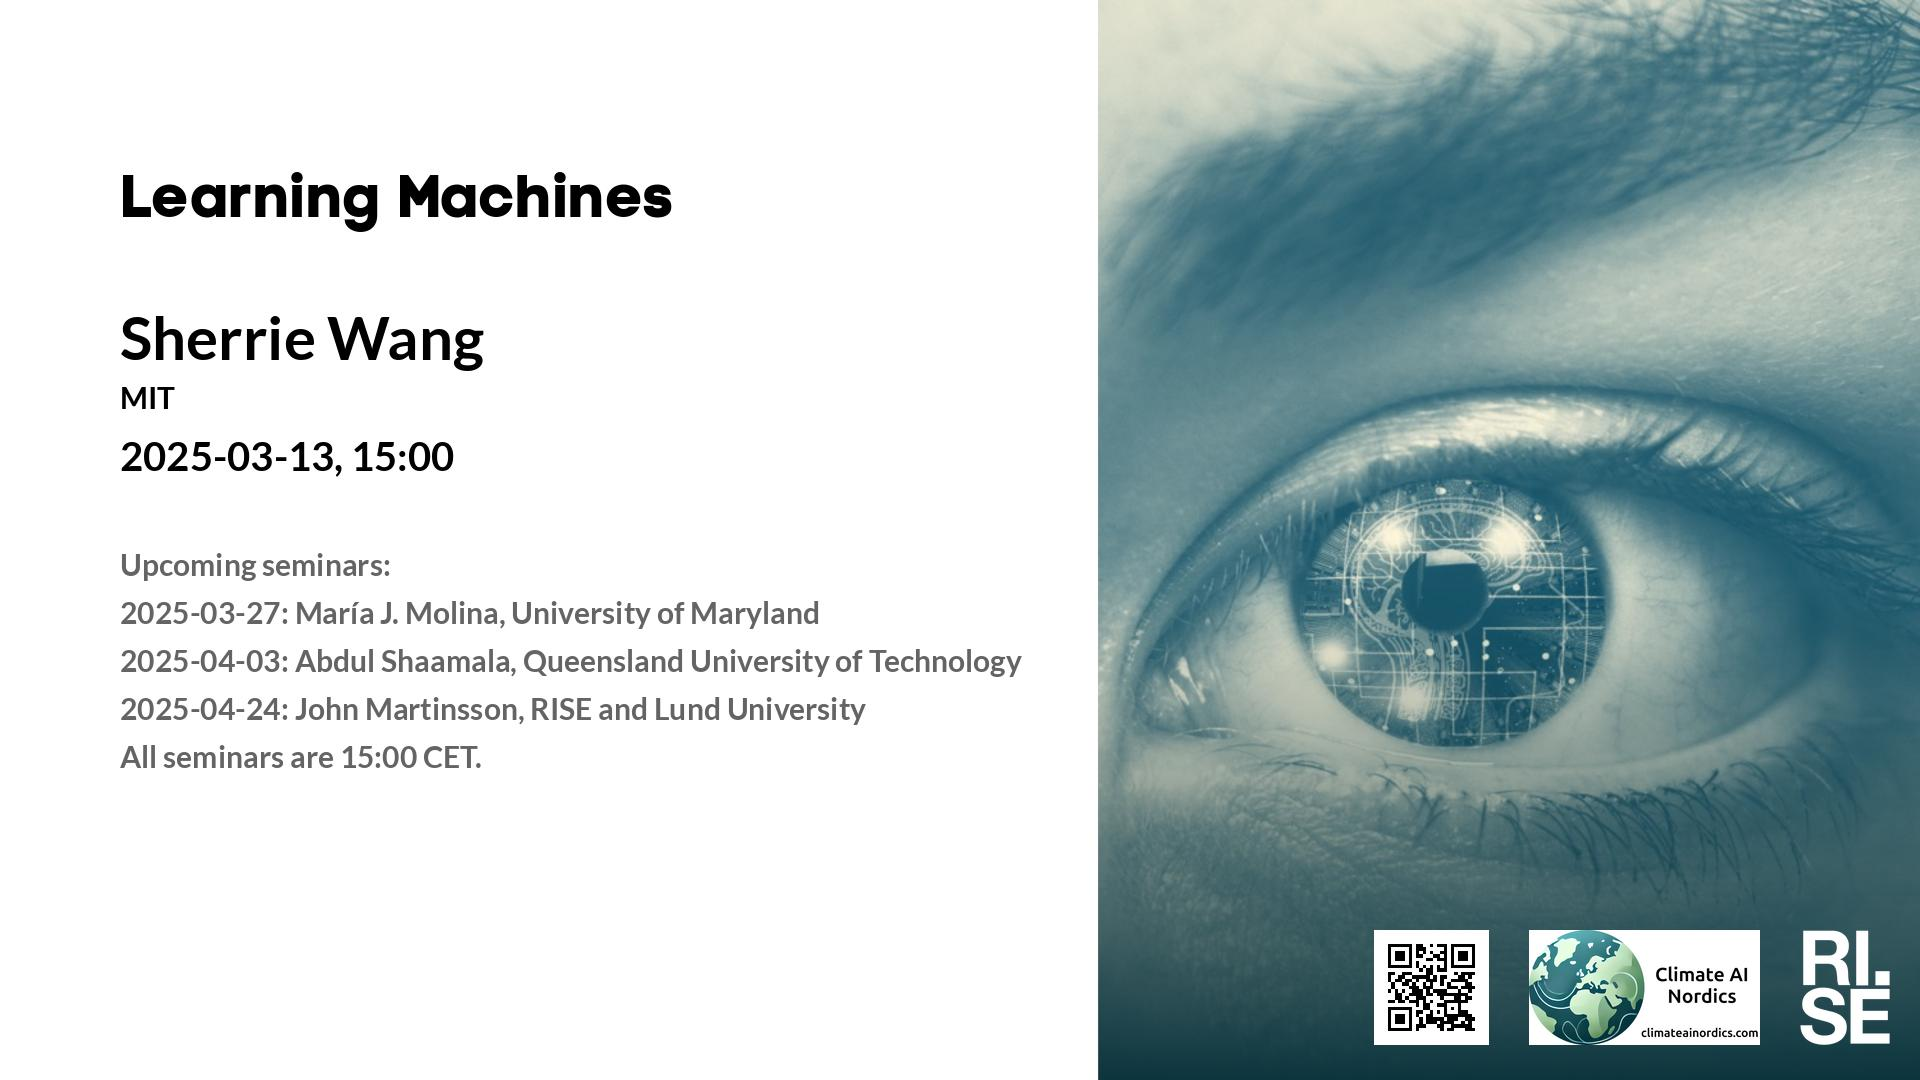
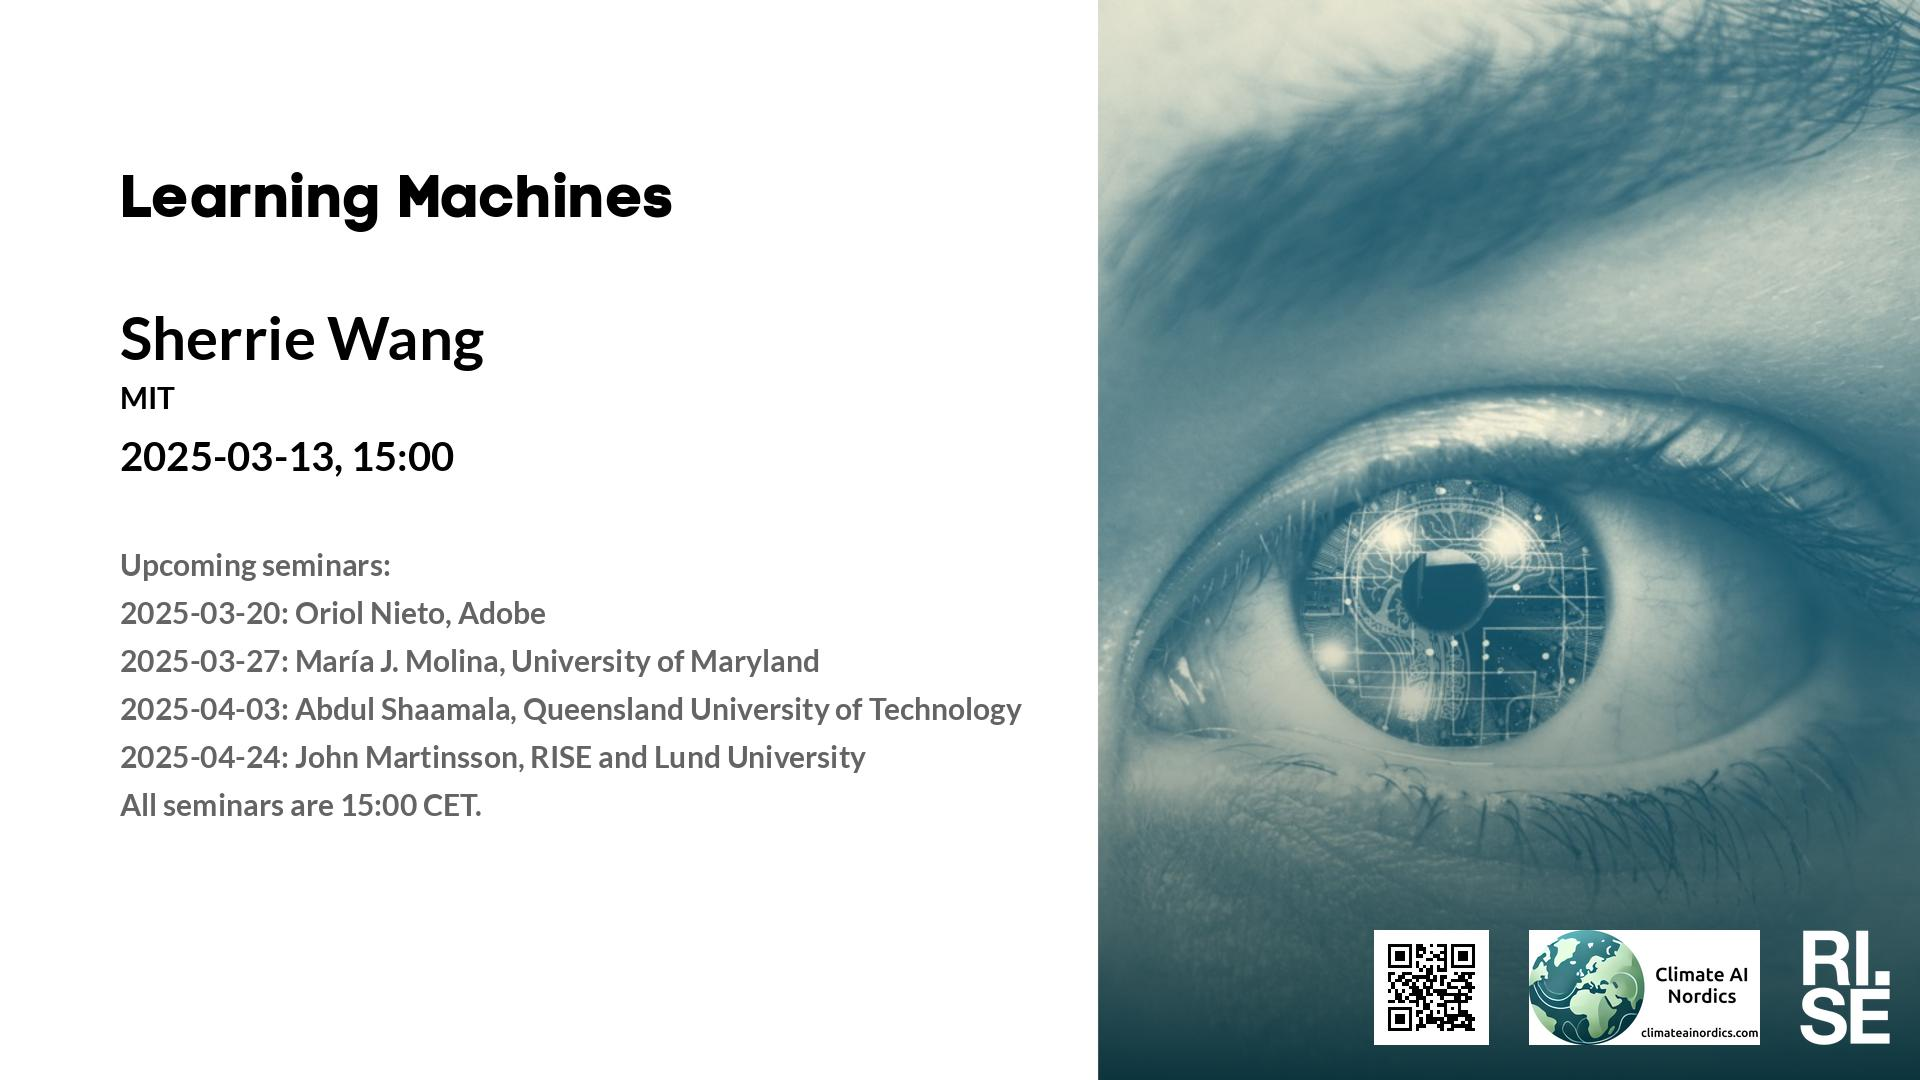
Updated plan on web site.

Changed region(s): [[0.0625, 0.55, 0.5312, 0.7639]]

diff --git a/lm/2025.md b/lm/2025.md
@@ -18,7 +18,7 @@ table {border-collapse: collapse;}
 | <span style="color:red"> 2025-02-27 </span> | <span style="color:red"> Sportlov STHLM </span> | <span style="color:red">  </span> | <span style="color:red">  </span> | <span style="color:red">  </span> | <span style="color:red">  </span> | <span style="color:red"> CANCELLED </span> |
 |  2025-03-06  |  [Atakan Aral, University of Vienna](2025-03-06.md)  |  [photo](2025-03-06-photo-atakan-aral.jpg)  |  [social media ](2025-03-06-social-media-atakan-aral.jpg)  |  [meeting backdrop ](2025-03-06-meeting-backdrop-atakan-aral.jpg)  |  [youtube thumbnail ](2025-03-06-youtube-thumbnail-atakan-aral.jpg)  |  STABP  |
 |  2025-03-13  |  [Sherrie Wang, MIT](2025-03-13.md)  |  [photo](2025-03-13-photo-sherrie-wang.jpg)  |  [social media ](2025-03-13-social-media-sherrie-wang.jpg)  |  [meeting backdrop ](2025-03-13-meeting-backdrop-sherrie-wang.jpg)  |  [youtube thumbnail ](2025-03-13-youtube-thumbnail-sherrie-wang.jpg)  |  S~~TA~~BP  |
-| <span style="color:grey"> 2025-03-20 </span> | <span style="color:grey"> Oriol (. N. ? </span> | <span style="color:grey">  </span> | <span style="color:grey">  </span> | <span style="color:grey">  </span> | <span style="color:grey">  </span> | <span style="color:grey"> S~~TA~~B~~P~~ </span> |
+|  2025-03-20  |  [Oriol Nieto, Adobe](2025-03-20.md)  |    |  [social media ](2025-03-20-social-media-oriol-nieto.jpg)  |  [meeting backdrop ](2025-03-20-meeting-backdrop-oriol-nieto.jpg)  |  [youtube thumbnail ](2025-03-20-youtube-thumbnail-oriol-nieto.jpg)  |  S~~TA~~B~~P~~  |
 |  2025-03-27  |  [María J. Molina, University of Maryland](2025-03-27.md)  |  [photo](2025-03-27-photo-maria-j.-molina.jpg)  |  [social media ](2025-03-27-social-media-maria-j.-molina.jpg)  |  [meeting backdrop ](2025-03-27-meeting-backdrop-maria-j.-molina.jpg)  |  [youtube thumbnail ](2025-03-27-youtube-thumbnail-maria-j.-molina.jpg)  |  STABP  |
 |  2025-04-03  |  [Abdul Shaamala, Queensland University of Technology](2025-04-03.md)  |  [photo](2025-04-03-photo-abdul-shaamala.jpg)  |  [social media ](2025-04-03-social-media-abdul-shaamala.jpg)  |  [meeting backdrop ](2025-04-03-meeting-backdrop-abdul-shaamala.jpg)  |  [youtube thumbnail ](2025-04-03-youtube-thumbnail-abdul-shaamala.jpg)  |  S~~TAB~~P  |
 | <span style="color:purple"> 2025-04-10 </span> | <span style="color:purple"> *Up for grabs!!!* </span> | <span style="color:purple">  </span> | <span style="color:purple">  </span> | <span style="color:purple">  </span> | <span style="color:purple">  </span> | <span style="color:purple"> ~~STABP~~ </span> |

diff --git a/lm/index.md b/lm/index.md
@@ -18,7 +18,7 @@ table {border-collapse: collapse;}
 | <span style="color:red"> 2025-02-27 </span> | <span style="color:red"> Sportlov STHLM </span> | <span style="color:red">  </span> | <span style="color:red">  </span> | <span style="color:red">  </span> | <span style="color:red">  </span> | <span style="color:red"> CANCELLED </span> |
 |  2025-03-06  |  [Atakan Aral, University of Vienna](2025-03-06.md)  |  [photo](2025-03-06-photo-atakan-aral.jpg)  |  [social media ](2025-03-06-social-media-atakan-aral.jpg)  |  [meeting backdrop ](2025-03-06-meeting-backdrop-atakan-aral.jpg)  |  [youtube thumbnail ](2025-03-06-youtube-thumbnail-atakan-aral.jpg)  |  STABP  |
 |  2025-03-13  |  [Sherrie Wang, MIT](2025-03-13.md)  |  [photo](2025-03-13-photo-sherrie-wang.jpg)  |  [social media ](2025-03-13-social-media-sherrie-wang.jpg)  |  [meeting backdrop ](2025-03-13-meeting-backdrop-sherrie-wang.jpg)  |  [youtube thumbnail ](2025-03-13-youtube-thumbnail-sherrie-wang.jpg)  |  S~~TA~~BP  |
-| <span style="color:grey"> 2025-03-20 </span> | <span style="color:grey"> Oriol (. N. ? </span> | <span style="color:grey">  </span> | <span style="color:grey">  </span> | <span style="color:grey">  </span> | <span style="color:grey">  </span> | <span style="color:grey"> S~~TA~~B~~P~~ </span> |
+|  2025-03-20  |  [Oriol Nieto, Adobe](2025-03-20.md)  |    |  [social media ](2025-03-20-social-media-oriol-nieto.jpg)  |  [meeting backdrop ](2025-03-20-meeting-backdrop-oriol-nieto.jpg)  |  [youtube thumbnail ](2025-03-20-youtube-thumbnail-oriol-nieto.jpg)  |  S~~TA~~B~~P~~  |
 |  2025-03-27  |  [María J. Molina, University of Maryland](2025-03-27.md)  |  [photo](2025-03-27-photo-maria-j.-molina.jpg)  |  [social media ](2025-03-27-social-media-maria-j.-molina.jpg)  |  [meeting backdrop ](2025-03-27-meeting-backdrop-maria-j.-molina.jpg)  |  [youtube thumbnail ](2025-03-27-youtube-thumbnail-maria-j.-molina.jpg)  |  STABP  |
 |  2025-04-03  |  [Abdul Shaamala, Queensland University of Technology](2025-04-03.md)  |  [photo](2025-04-03-photo-abdul-shaamala.jpg)  |  [social media ](2025-04-03-social-media-abdul-shaamala.jpg)  |  [meeting backdrop ](2025-04-03-meeting-backdrop-abdul-shaamala.jpg)  |  [youtube thumbnail ](2025-04-03-youtube-thumbnail-abdul-shaamala.jpg)  |  S~~TAB~~P  |
 | <span style="color:purple"> 2025-04-10 </span> | <span style="color:purple"> *Up for grabs!!!* </span> | <span style="color:purple">  </span> | <span style="color:purple">  </span> | <span style="color:purple">  </span> | <span style="color:purple">  </span> | <span style="color:purple"> ~~STABP~~ </span> |

diff --git a/lm/2025-03-20.md b/lm/2025-03-20.md
@@ -1,0 +1,34 @@
+---
+layout: default
+metatags: "<meta name=\"robots\" content=\"noindex,nofollow\" />"
+---
+ 
+Welcome to this week's Learning Machines seminar.
+
+This seminar is a collaboration between RISE and Climate AI Nordics -- [climateainordics.com](https://climateainordics.com/).
+
+**Title:** N/A
+
+**Speaker:** Oriol Nieto, Adobe
+
+**Abstract:** N/A
+
+**About the speaker:** Oriol Nieto is a researcher at Adobe focusing on machine learning and signal processing for audio. He contributed to Premiere Pro with AI technologies, including Audio Category Tagging, and also co-authored the popular Python library librosa. He is involved in the ISMIR community and serve as General Co-Chair of ISMIR 2024. A multi-instrumentalist, he performs in diverse bands and manages Jarl’em All Studios. Previously, he taught courses at NYU and collaborated with Jordan Rudess to develop iOS music apps.
+
+**Location:** This is an online seminar. Connect using Zoom.
+
+**Date:** 2025-03-20 15:00
+
+**Zoom link:** [https://rise.zoom.us/j/69691371971?pwd=GLX50iGdw4tEG7bNkAF8XGSquJeQrV.1](https://rise.zoom.us/j/69691371971?pwd=GLX50iGdw4tEG7bNkAF8XGSquJeQrV.1)
+
+**Upcoming seminars:**
+
+* 2025-03-27: María J. Molina, University of Maryland
+* 2025-04-03: Abdul Shaamala, Queensland University of Technology
+* 2025-04-24: John Martinsson, RISE and Lund University
+* All seminars are 15:00 CET.
+
+More information and coming seminars: [https://ri.se/lm-sem](https://ri.se/lm-sem)
+
+-- The Learning Machines Team
+

diff --git a/lm/statistics-2025.md b/lm/statistics-2025.md
@@ -10,11 +10,11 @@ title: Learning Machines Statistics 2025
 
 
 
-## 10 speakers
+## 11 speakers
 
-Abdul Shaamala, Abdulhakim Abdi, Amal Nammouchi, Atakan Aral, Benjamin Cretois, John Martinsson, María J. Molina, Newton Mwai Kinyanjui, Oscar Täckström, Sherrie Wang
+Abdul Shaamala, Abdulhakim Abdi, Amal Nammouchi, Atakan Aral, Benjamin Cretois, John Martinsson, María J. Molina, Newton Mwai Kinyanjui, Oriol Nieto, Oscar Täckström, Sherrie Wang
 
-## 10 affiliations
+## 11 affiliations
 
-Chalmers University of Technology, Karlstad University and AfriClimate AI, Lund University, MIT, Norwegian Institute for Nature Research, Queensland University of Technology, RISE and Lund University, Sana Labs, University of Maryland, University of Vienna
+Adobe, Chalmers University of Technology, Karlstad University and AfriClimate AI, Lund University, MIT, Norwegian Institute for Nature Research, Queensland University of Technology, RISE and Lund University, Sana Labs, University of Maryland, University of Vienna
 

diff --git a/lm/2025-03-06.md b/lm/2025-03-06.md
@@ -24,9 +24,9 @@ This seminar is a collaboration between RISE and Climate AI Nordics -- [climatea
 **Upcoming seminars:**
 
 * 2025-03-13: Sherrie Wang, MIT
+* 2025-03-20: Oriol Nieto, Adobe
 * 2025-03-27: María J. Molina, University of Maryland
 * 2025-04-03: Abdul Shaamala, Queensland University of Technology
-* 2025-04-24: John Martinsson, RISE and Lund University
 * All seminars are 15:00 CET.
 
 More information and coming seminars: [https://ri.se/lm-sem](https://ri.se/lm-sem)

diff --git a/lm/2025-03-13.md b/lm/2025-03-13.md
@@ -25,6 +25,7 @@ Prior to MIT, Wang was a Ciriacy-Wantrup Postdoctoral Fellow at UC Berkeley, hos
 
 **Upcoming seminars:**
 
+* 2025-03-20: Oriol Nieto, Adobe
 * 2025-03-27: María J. Molina, University of Maryland
 * 2025-04-03: Abdul Shaamala, Queensland University of Technology
 * 2025-04-24: John Martinsson, RISE and Lund University
